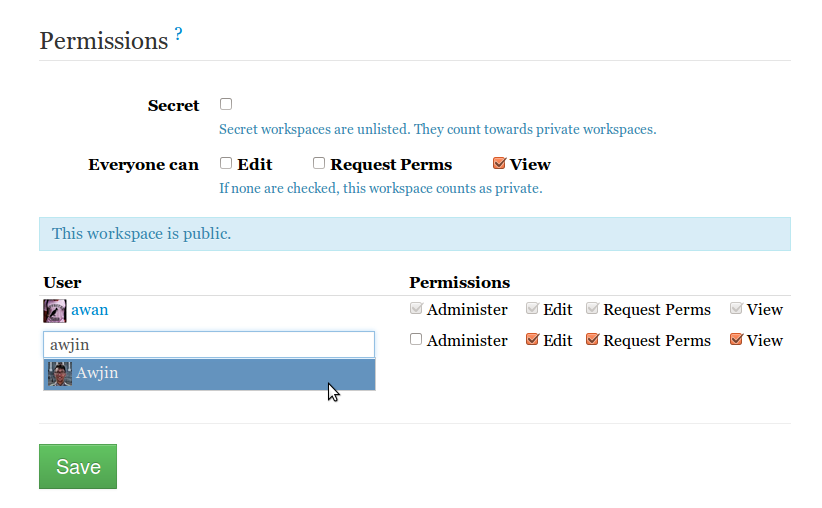
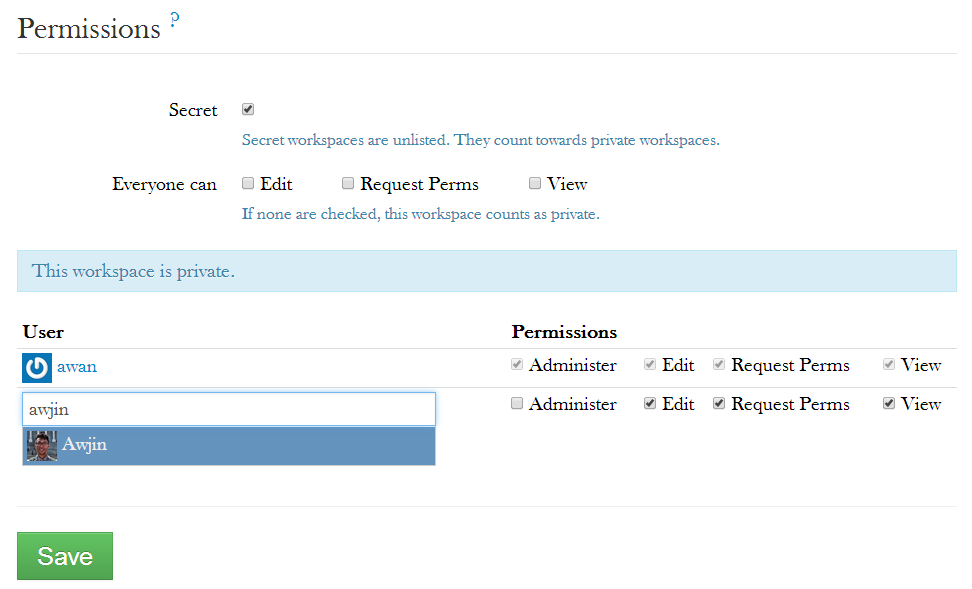
Added edu section / changed perms instructions

diff --git a/subl-floo-tutorial.html b/subl-floo-tutorial.html
@@ -97,8 +97,9 @@ Released   : 20130707
           <p>To be able to run Sublime from the command line, two things must be done:</p>
           <p>1) Check that the bin folder in your home directory is in your PATH. Run</p>
           <pre>$ echo $PATH</pre>
-          <p>and if you see <tt>/home/(your usrname)/bin</tt> or <tt>$HOME/bin</tt> you're all set. Otherwise, add it to your PATH using</p>
-          <pre>$ export PATH="$HOME/bin:$PATH"</pre>
+          <p>and if you see <tt>/home/(your usrname)/bin</tt> or <tt>$HOME/bin</tt> you're all set. Otherwise, open <tt>~/.bashrc</tt> in your favorite (non-Sublime) editor and add this line in there:</p>
+          <pre>export PATH="$HOME/bin:$PATH"</pre>
+          <p>This adds the <tt>~/bin</tt> directory to the system <tt>PATH</tt> variable. You'll need to run <tt>$ source ~/.bashrc</tt> on the command line to reload the <tt>.bashrc</tt> file.</p>
 
           <p>2) Make a symbolic link to the executable file in the <tt>bin</tt> folder: in your <tt>~/bin</tt> folder run</p>
           <pre>$ ln -s sublime_text_3/sublime_text .</pre>
@@ -139,7 +140,7 @@ Released   : 20130707
           <br><br>
 
           <h3>Installation</h3>
-          <p>With Package Control installed, installing Floobits easier than pie. Open the command palette with <kbd>ctrl</kbd>+<kbd>shift</kbd>+<kbd>p</kbd> then start typing <tt>install</tt> - select <tt>Package Control: Install Packages</tt>. Once Package Control starts up, type <tt>Floobits</tt>, and install the Floobits package. You're done! </p>
+          <p>With Package Control installed, installing Floobits is easier than pie. Open the command palette with <kbd>ctrl</kbd>+<kbd>shift</kbd>+<kbd>p</kbd> then start typing <tt>install</tt> - select <tt>Package Control: Install Packages</tt>. Once Package Control starts up, type <tt>Floobits</tt>, and install the Floobits package. You're done! </p>
           <img src="images/subl-floo/floo-instl.png" style="float:left" alt="Starting Package Control from the command palette" title="After opening the command palette" Vspace="20px"/></a>
           <BR CLEAR="all">
           <img src="images/subl-floo/floo-instl2.png" style="float:left" alt="Installing Floobits from Package Control" title="The Floobits Package" Vspace="20px"/></a>
@@ -147,7 +148,10 @@ Released   : 20130707
 
           <h3>Setting up a workspace</h3>
           <p>Right after you install Floobits, you'll be redirected to make an account with Floobits. Go ahead and follow the instructions on the Floobits page, and your copy of Sublime will be linked to your Floobits account. </p>
-          <p>Now to set up your first workspace. <em>Only one person should do this part!</em> On the Floobits webpage, click <tt>Create a Workspace</tt> up top, and fill in the <tt>Name</tt> field, e.g. <tt>csXX_labY</tt>. Leave the Permissions as they are - "Everyone can view" is the default and this is fine (private workspaces will cost you money). Create the workspace, then in the search for user box, find your partner by username and select them. Hit save. Now your partner can collaborate on this code.</p>
+
+          <p>Once you've made an account, there's one more thing to do. By default, free accounts can only make public workspaces. This means that your code is visible to anyone on the Internet, even if they don't have a Floobits account. That's no good! Luckily, Floobits offers 3 private workspaces for free for users with a .edu account. Follow <a href="https://floobits.com/edu">this link</a> to link your Floobits account with your @swat account, and rack up 3 free private workspaces!</p>
+
+          <p>Now to set up your first workspace. <em>Only one person should do this part!</em> On the Floobits webpage, click <tt>Create a Workspace</tt> up top, and fill in the <tt>Name</tt> field, e.g. <tt>csXX_labY</tt>. Check "Secret" and uncheck all the "Everyone can" boxes (see the image below). Create the workspace, then in the search for user box, find your partner by username and select them. Hit save. Now your partner can collaborate on this code.</p>
 
           <a href="images/subl-floo/floo-perms.png"><img src="images/subl-floo/floo-perms.png" width="100%" style="float:left" alt="Me adding my partner to the workspace" title="Adding my long-suffering partner after creating the workspace" Vspace="20px"/></a>
           <BR CLEAR="all">
@@ -171,6 +175,9 @@ Released   : 20130707
           <BR CLEAR="all">
 
           <p>Once this is all done, your partner should Join the workspace as well, and sync it to an empty local directory (syncing it to an existing directory could be fine but it's easier to replace the existing directory with the new Floobits-synced one) following the same steps above. Now test it out - if you are both connected to the workspace, you should be able to see each other's edits on your own screen. Happy coding!</p>
+
+          <h3>Subsequent Projects</h3>
+          <p>If you enjoyed using Floobits and Sublime for pair-programming, you'll want to keep hosting your lab projects on Floobits workspaces. However, unless you pay for more, students only get 3 private workspaces total. I recommend deleting the workspace from the Floobits website after you've handed your lab files in. This frees up space for a new project, and doesn't change any local files offline - it just stops you from editing the same files at the same time online.</p>
 
         </li>
         <li>
@@ -224,7 +231,7 @@ Released   : 20130707
         </li>
         <li>
           <h2 id="thanks">Acknowledgments</h2>
-          <p>A huge thank-you to Jeff Knerr, without whom I would still be taking turns with my partner to type. A shout-out to the Matchbot team (Sam, Stella, Rita, and Luis) for introducing me to this in the first place. </p>
+          <p>A huge thank-you to Jeff Knerr for his feedback and help with the .edu accounts, without whom I would still be taking turns with my partner to type. A shout-out to the Matchbot team (Sam, Stella, Rita, and Luis) for introducing me to this in the first place. </p>
 
 
         </li> 
